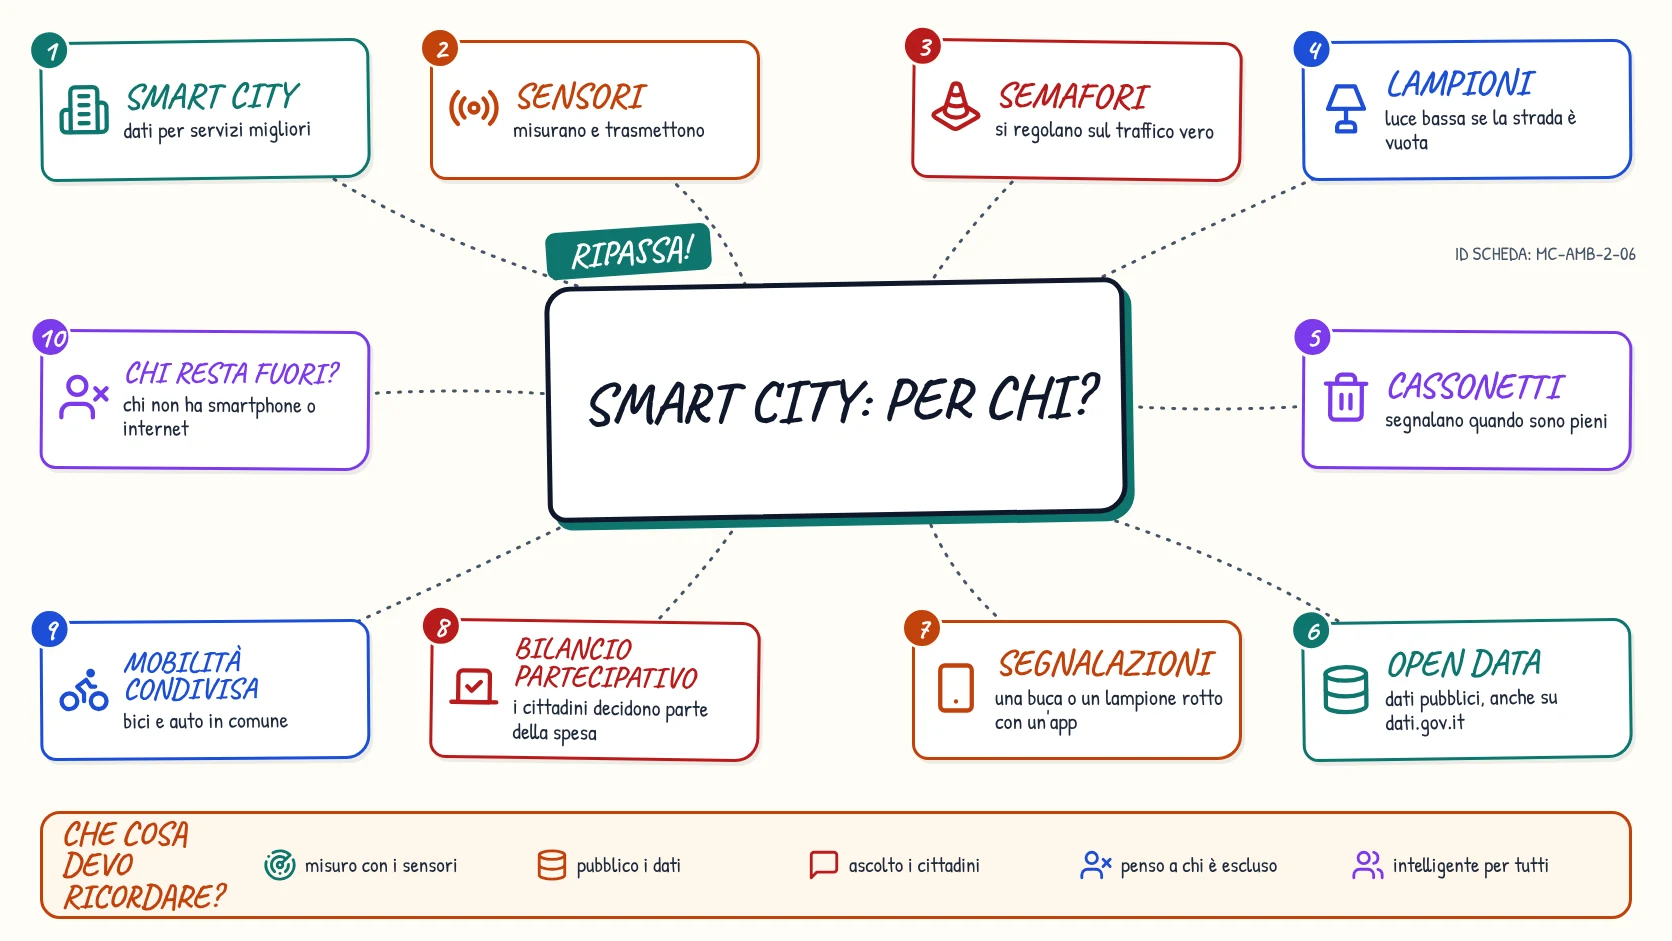
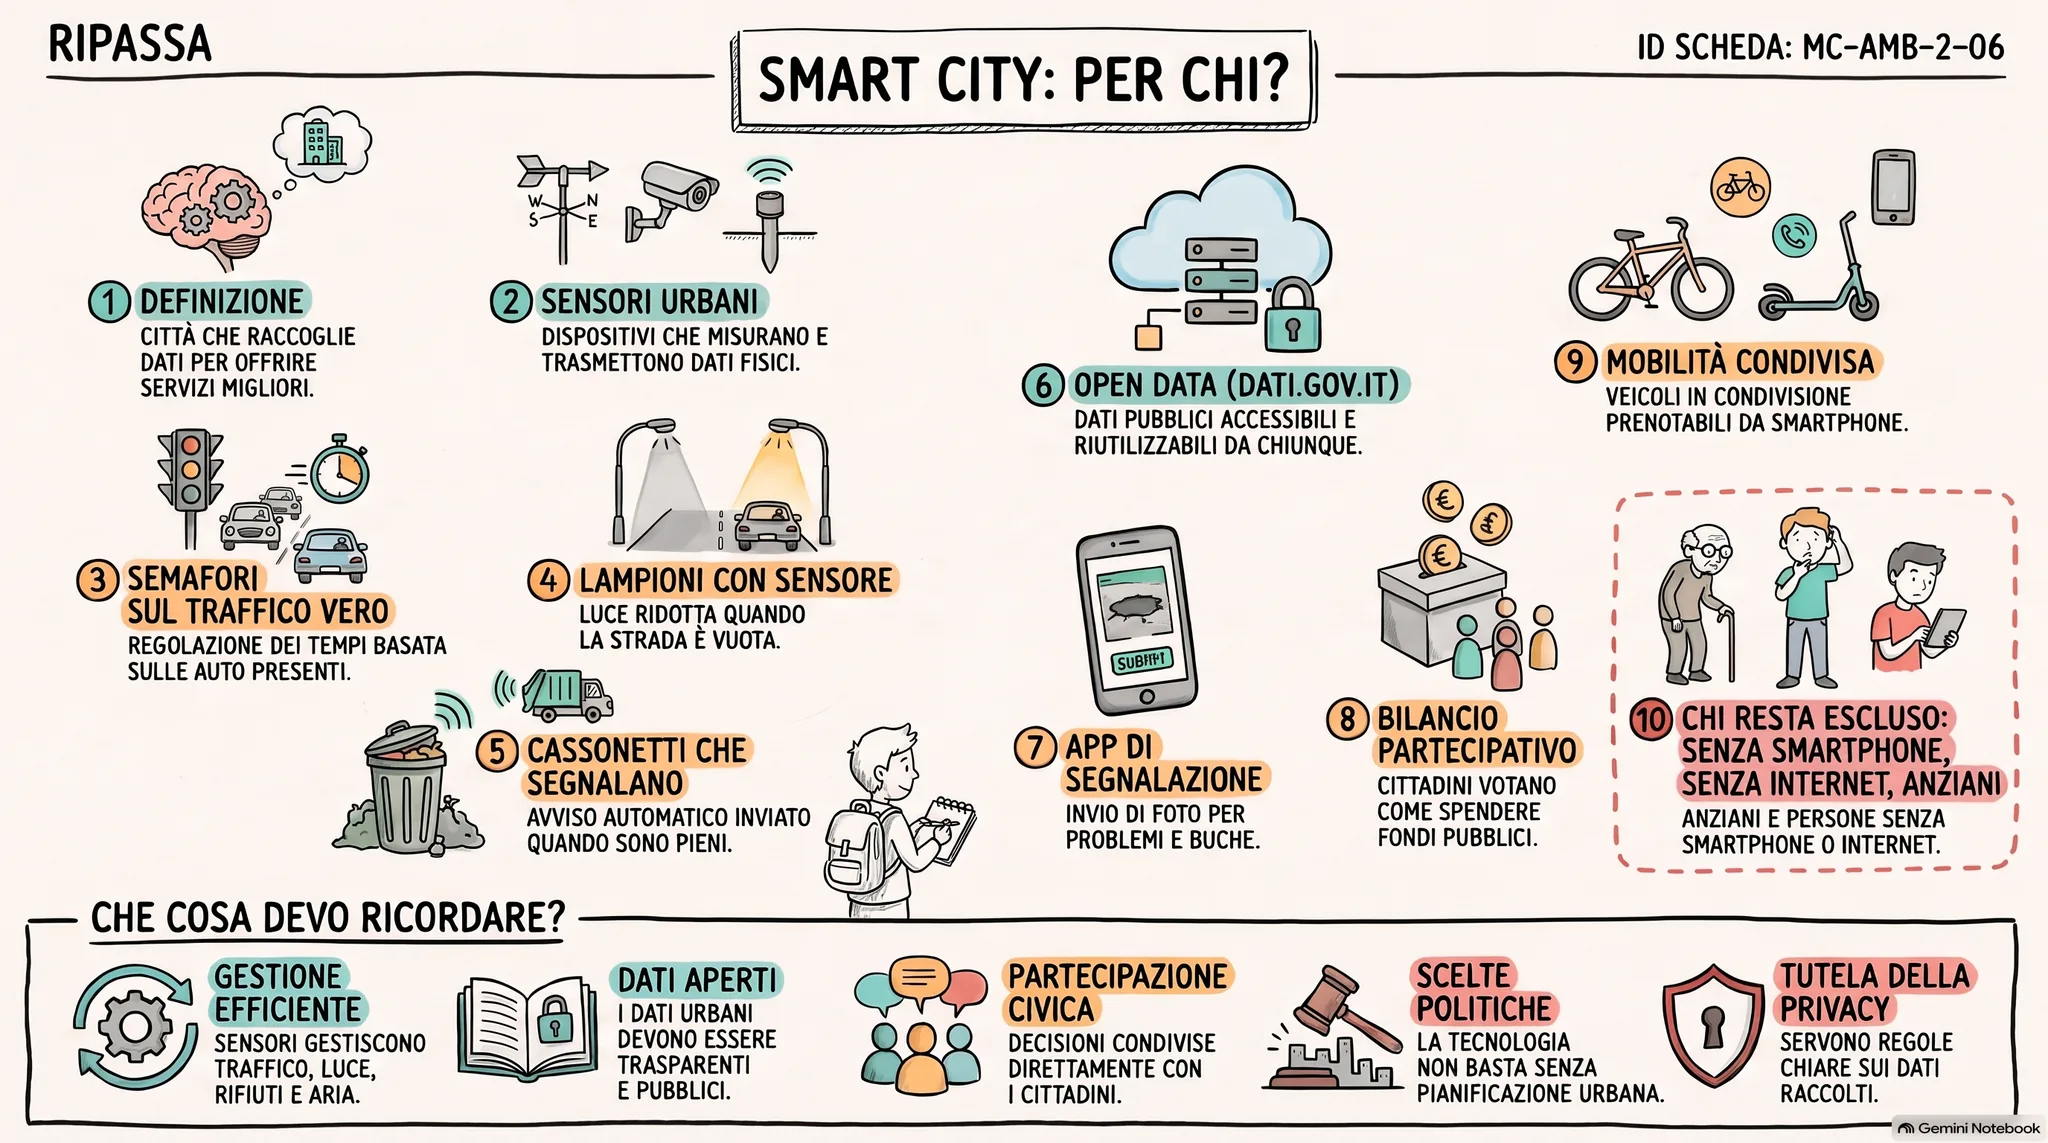
Immagini delle 9 MC riallineate rigenerate con NotebookLM
Sketchnote di RIPASSA, schede del compito e infografiche di processo
(25 file, stessi nomi) generate nel notebook di Tecnologia con il solo
testo della MC come fonte, controllate parola per parola; corretti a mano
cinque refusi di una lettera. Sostituiscono la versione vettoriale.

Claude-Session: https://claude.ai/code/session_01M2Ya2L66Gw1hwuKYQnYqDP

diff --git a/lib/asset-fuori-tema.ts b/lib/asset-fuori-tema.ts
@@ -5,8 +5,9 @@
  * della scheda JSON originale; il JSON è stato riallineato al testo (decisione autore:
  * vale il testo).
  *
- * Rigenerati il 2026-11-09 sul tema del testo (stessi nomi file): sketchnote di RIPASSA,
- * immagine del compito di realtà, infografica di processo, hook audio.
+ * Rigenerati sul tema del testo (stessi nomi file): sketchnote di RIPASSA, immagine del
+ * compito di realtà, infografica di processo (2026-11-10, con NotebookLM, fonte = solo il
+ * testo della MC), hook audio (2026-11-09).
  * Restano nascoste, finché non si rilancia il loro generatore sul JSON corretto, la mappa
  * concettuale e la tavola da testo, ancora sul vecchio tema.
  * Le foto decorative (copertina, contesto) e i ritratti delle professioni restano visibili.

diff --git a/docs/BRIEF_rigenerazione_asset_9MC.md b/docs/BRIEF_rigenerazione_asset_9MC.md
@@ -21,6 +21,8 @@ In 9 MC il testo pubblicato tratta un tema diverso dalla scheda JSON originale. 
 In più, l'infografica di **MC-DIG-2-04** è nascosta perché presenta il lucchetto HTTPS come difesa dal phishing (vedi §5).
 
 > **Aggiornamento 9 novembre, sera.** Sketchnote, schede del compito e infografiche sono state rigenerate (grafica vettoriale con testi verificati, stessi nomi file) e sono online, insieme a una nuova infografica per AMB-2-05 e all'infografica corretta di DIG-2-04 (v2). Restano da rifare solo le **copertine** (facoltative: sono decorative) e, rilanciando il generatore sui JSON corretti, **mappa concettuale e tavola da testo** delle 9 MC e di DIG-2-04, ancora nascoste. Le sezioni 3-5 restano come riferimento per una futura versione fotorealistica.
+>
+> **Aggiornamento 10 novembre.** Le 25 immagini (9 sketchnote, 9 schede del compito, 7 infografiche) sono state rigenerate con NotebookLM nel notebook "Tecnologia: Disegno, Materiali e Coding", usando come unica fonte il testo della MC (aggiunto come "Testo copiato"), e sostituiscono la versione vettoriale con gli stessi nomi file (WebP 2048 × 1143). Ogni immagine è stata controllata parola per parola: circa due su tre della prima tornata contenevano refusi e sono state rifatte; cinque refusi di una sola lettera sono stati corretti a mano sui pixel ("Meteriale", "OR code", due "valutuzione", "dicture") e in SIS-3-04 è stata tolta un'etichetta "Realistico" duplicata. Restano piccole scritte decorative illeggibili su alcuni oggetti disegnati (opuscoli, telefoni). Nel notebook sono rimaste le fonti delle 10 MC e le infografiche di scarto: si possono eliminare a mano.
 
 ## 2. Cosa è nascosto e come rimetterlo online
 
